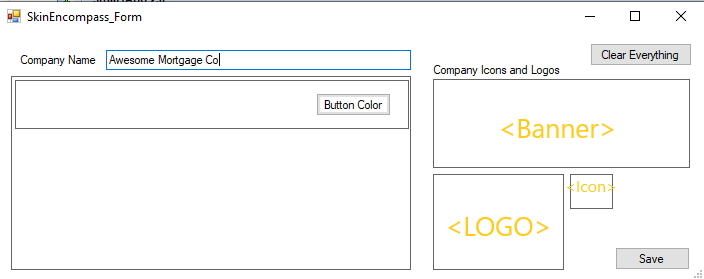
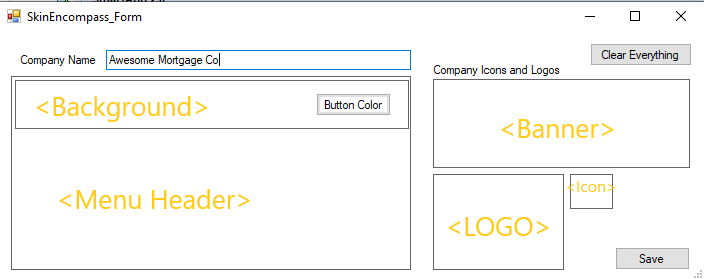
Skin Encompass docs complete

Changed region(s): [[0.0312, 0.3441, 0.3125, 0.4301], [0.0625, 0.6882, 0.375, 0.7455]]

diff --git a/website/docs/documentation/tools/Utilities/Skin Encompass.md b/website/docs/documentation/tools/Utilities/Skin Encompass.md
@@ -1,14 +1,14 @@
----
-sidebar_label: Skin Encompass 🚧
----
-
-<underconstruction/>
-
 # Skin Encompass
 
 ## Features
 
 Want to customize Encompass to fit your branding style and separate it from the rest? Or perhaps you are just looking for a way to visually segment your different Encompass environments. With this tool, you can apply customizations to the Encompass UI to fit your needs and organizational branding. Globally customize the colors applied to Encompass buttons, panels, and more :rainbow:
+
+:::caution
+
+Skin Encompass overrides may result in accessibility issues if the changes are not thoroughly tested. Additionally, there is a performance impact when using the tool.
+
+:::
 
 ## Setup
 
@@ -40,16 +40,72 @@ Only those that have been given access to edit PluginManagement will be able to 
 13. Click on the Configure button
 14. The SkinEncompass_Form should now load:
 
-![Skin Encompass Form](/img/SkinEncompass/SkinEncompass_Form.png)
+![Banner, Logo, and Icon](/img/SkinEncompass/SkinEncompass_Form_Options.png)
 
-15. You can set a company name by defining it in the Company Name field. 
+### Company Name
 
-16. To set the default button colors for Encompass, click on the Button Color button and select a color theme by selecting a default theme or choosing Define Custom Colors:
+You can set a company name by defining it in the Company Name field. After doing so and saving your changes, users that have been given access to the Skin Encompass tool will see the company name applied to the Encompass UI:
+
+![Company Name Example](/img/SkinEncompass/SkinEncompass_Company_Name.png)
+
+### Background Color
+
+To set the default background color for Encompass, double click in the Background Color section: 
+
+![Default Background Color](/img/SkinEncompass/SkinEncompass_Form_Options_Background.png)
+
+A modal will display and allow you to select a color theme by selecting a default theme or choosing Define Custom Colors and defining an RGB value for the color to use. After selecting a color, save your changes. Users that have been given access to the Skin Encompass tool will see the background color applied throughout the Encompass UI.
+
+### Menu Header Color
+
+:::warning
+
+A dark color is not suggested for the Menu Header Color as it will make text difficult to read.
+
+:::
+
+To set the default menu header color for Encompass, double click in the Menu Header Color section:
+
+![Default Menu Header Color](/img/SkinEncompass/SkinEncompass_Form_Options_Menu_Header.png)
+
+A modal will display and allow you to select a color theme by selecting a default theme or choosing Define Custom Colors and defining an RGB value for the color to use. After selecting a color, save your changes. Users that have been given access to the Skin Encompass tool will see the menu header color applied in different places throughout the Encompass UI, for example:
+
+![Menu Header Color Example](/img/SkinEncompass/SkinEncompass_Form_Menu_Header_Example.png)
+
+### Button Colors
+
+To set the default button colors for Encompass, click on the Button Color button and select a color theme by selecting a default theme or choosing Define Custom Colors and defining an RGB value for the color to use:
 
 ![Default Button Colors](/img/SkinEncompass/SkinEncompass_Form_Button_Color.png)
 
-17. Additional customization can be applied to the Banner, Logo, and Icon properties by selecting the following:
+After doing so and saving your changes, users that have been given access to the Skin Encompass tool will see the button colors applied throughout the Encompass UI, for example on the Pipeline tab:
 
-![Banner, Logo, and Icon](/img/SkinEncompass/SkinEncompass_Form_Options.png)
+![Button Colors Example](/img/SkinEncompass/SkinEncompass_Form_Buttons_Example.png)
 
-18. TBD
+### Icon
+
+A custom icon can be applied to the Encompass UI by clicking on the icon input box in the SkinEncompass settings menu: 
+
+![Icon Option](/img/SkinEncompass/SkinEncompass_Form_Options_Icon.png)
+
+A modal will display and allow you to select an icon image saved to your PC ( a smaller icon size is recommended such as 20x20 ). After selecting an icon image, save your changes. Users that have been given access to the Skin Encompass tool will see the icon applied to the Encompass UI at the uppermost top left corner of the Encompass UI as well as other windows such as the eFolder window:
+
+![Icon Example](/img/SkinEncompass/SkinEncompass_Form_Icon_Example.png)
+
+
+### Logo
+
+A custom logo can be applied to the Encompass UI by clicking on the logo input box in the SkinEncompass settings menu:
+
+![Logo Option](/img/SkinEncompass/SkinEncompass_Form_Options_Logo.png)
+
+A modal will display and allow you to select a logo image saved to your PC. After selecting a logo image, save your changes. Users that have been given access to the Skin Encompass tool will see the logo applied to the Encompass UI throughout on controls that support it. 
+
+### Banner
+
+A custom banner can be applied to the Encompass UI by clicking on the banner input box in the SkinEncompass settings menu:
+
+![Banner Option](/img/SkinEncompass/SkinEncompass_Form_Options_Banner.png)
+
+A modal will display and allow you to select a banner image saved to your PC. After selecting a banner image, save your changes. Users that have been given access to the Skin Encompass tool will see the banner applied to the Encompass UI throughout on controls that support it.
+
